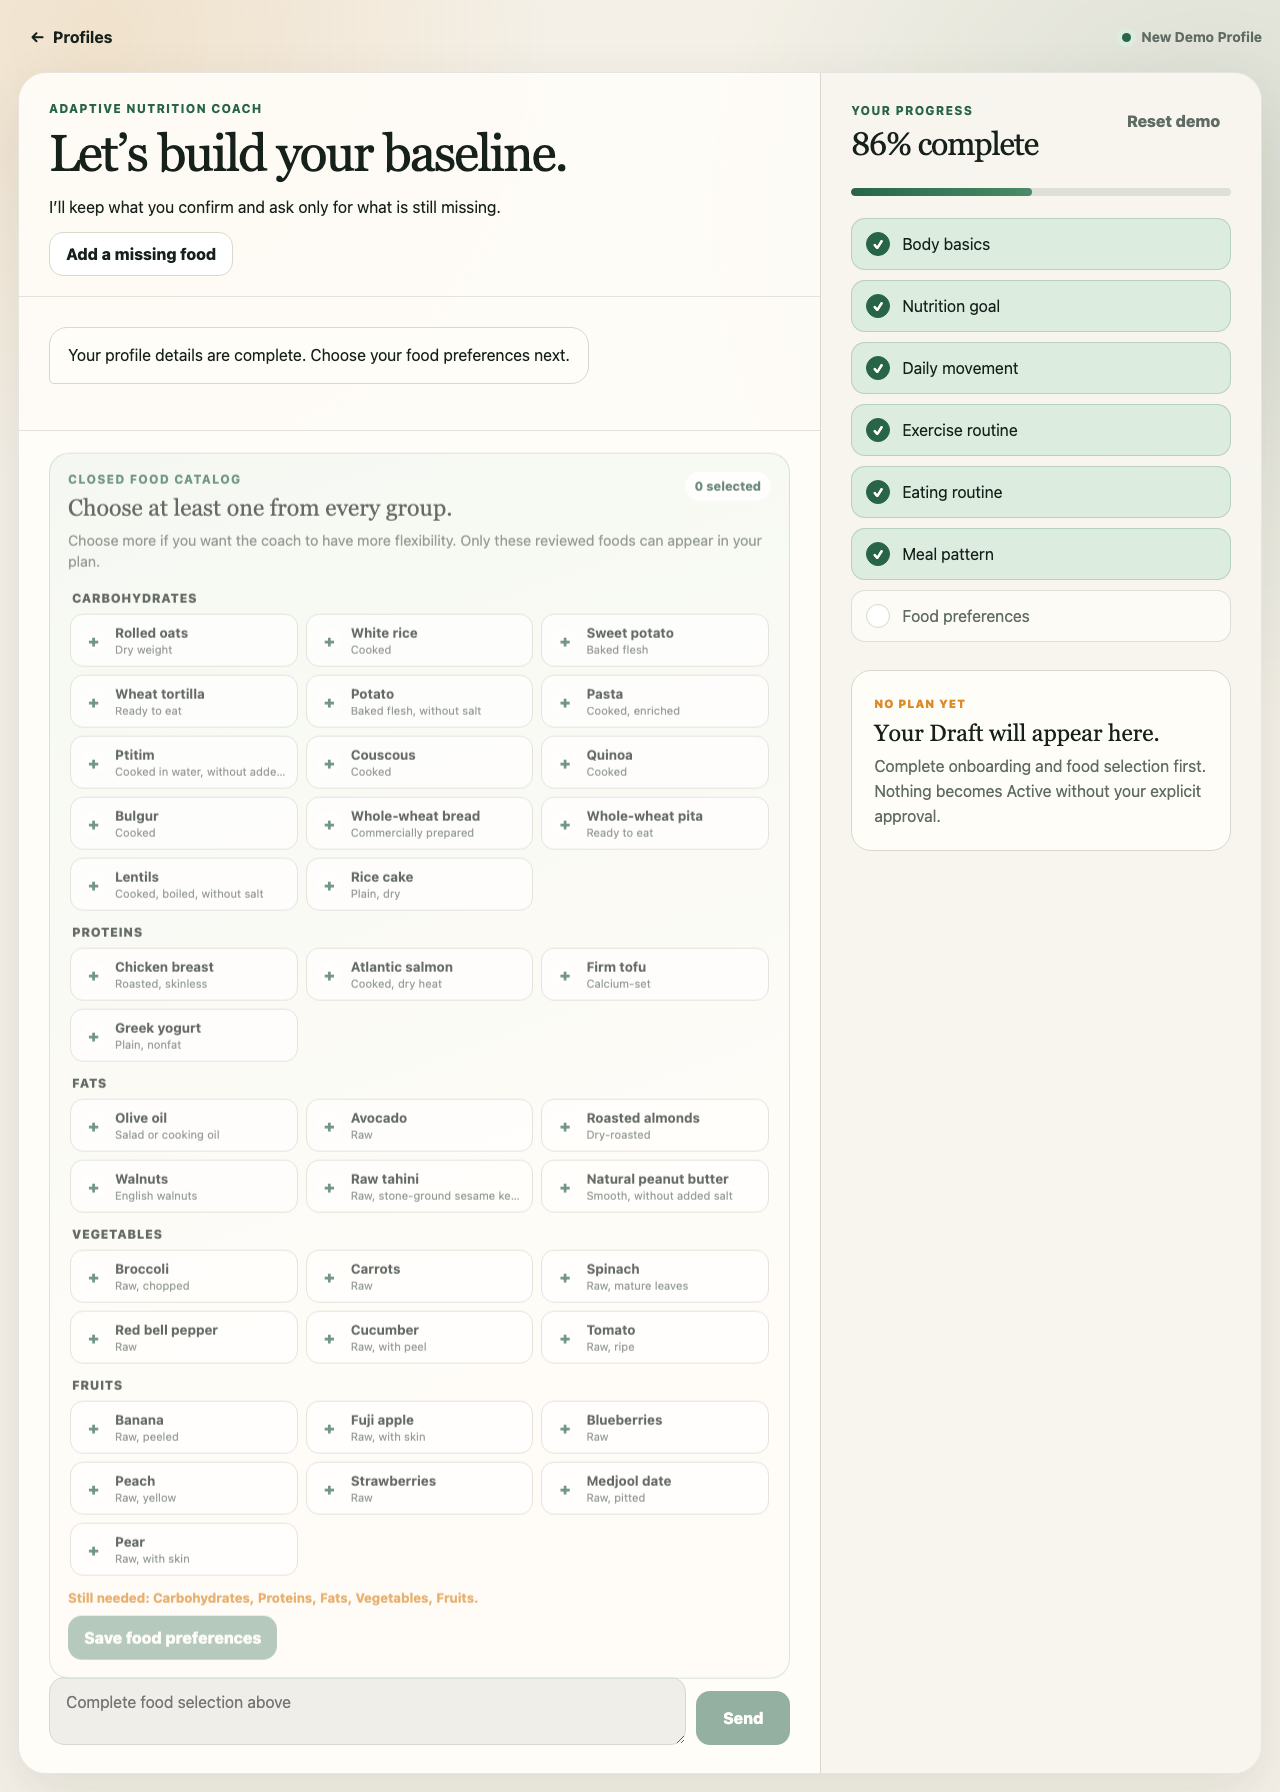
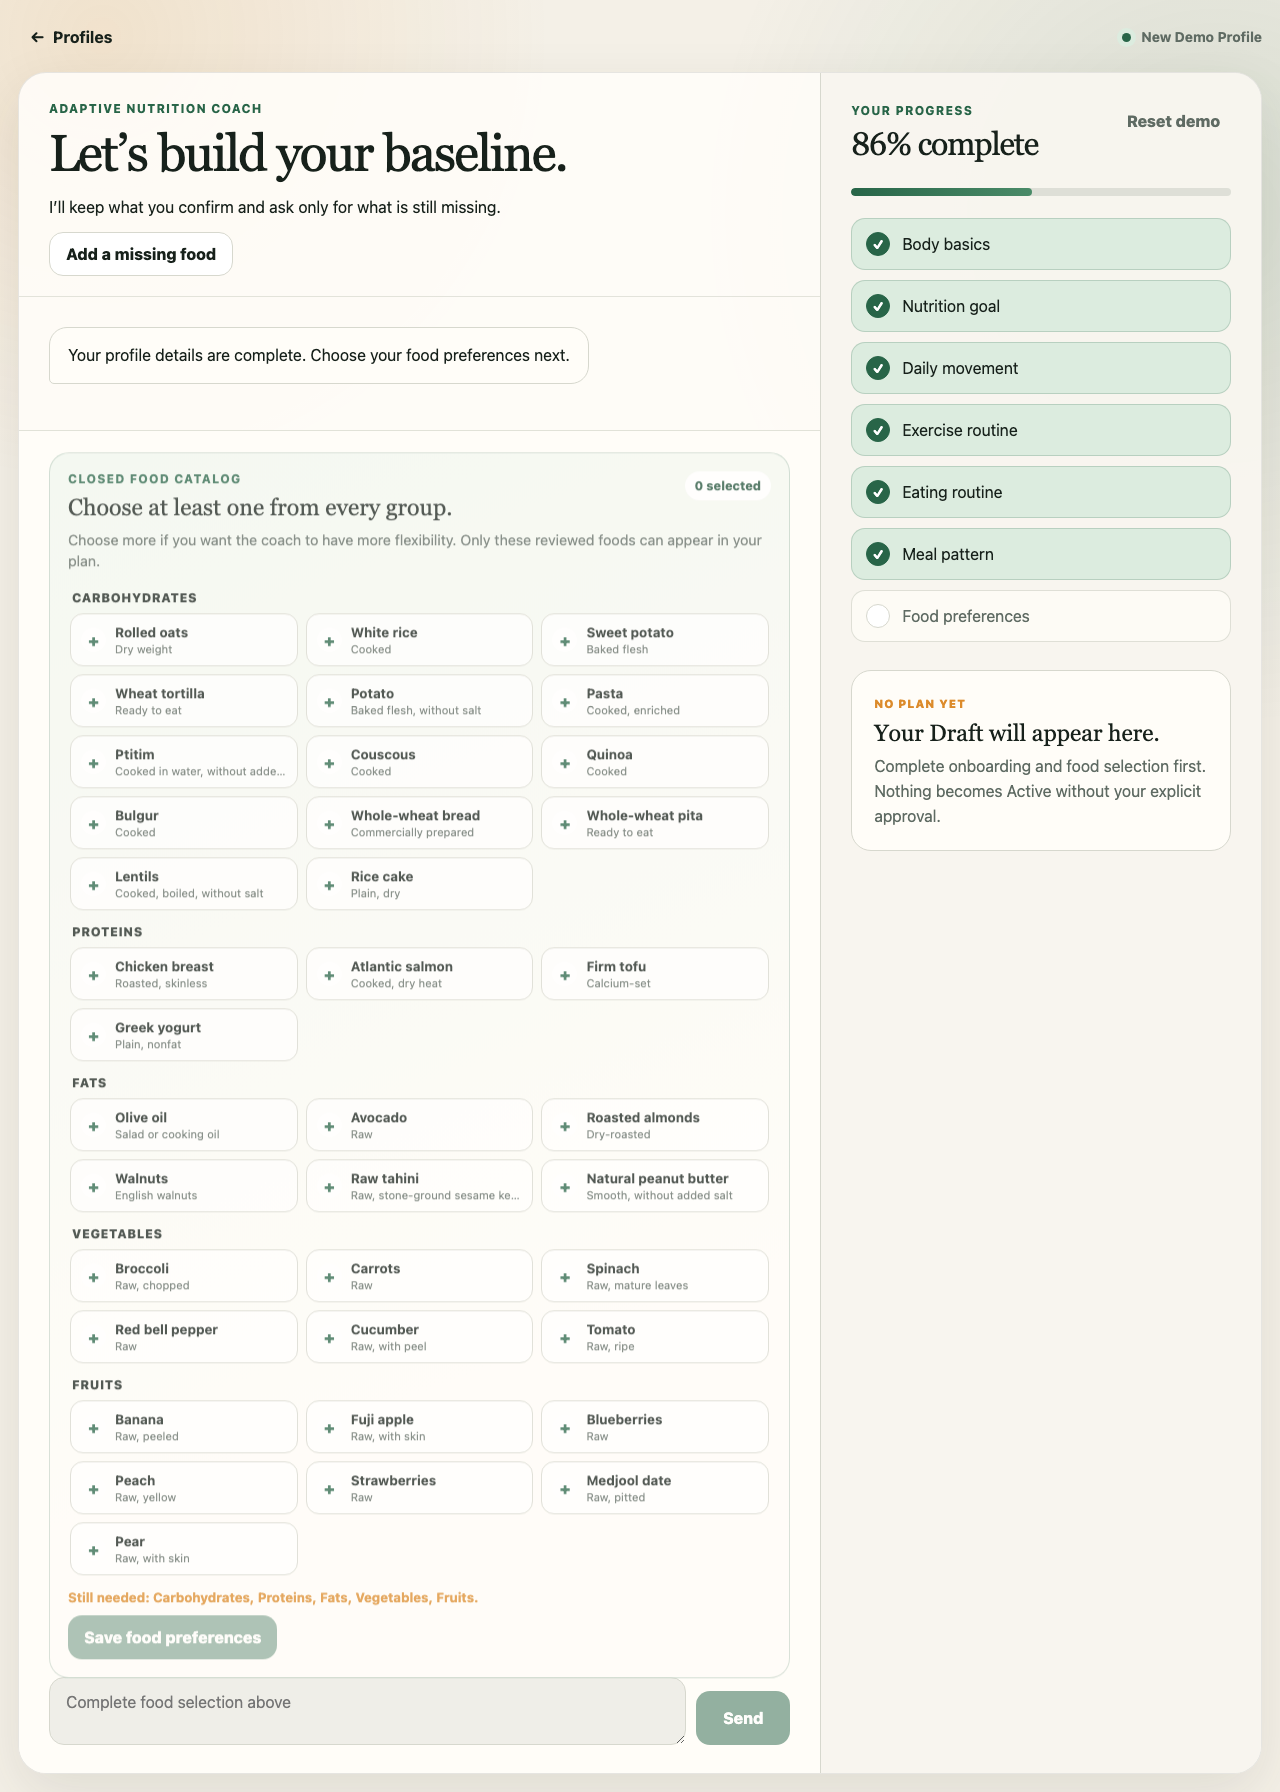
Make Draft generation direct and submit chat on Enter

Changed region(s): [[0.0938, 0.6875, 0.125, 0.7188]]

diff --git a/src/components/coach-workspace/CoachWorkspace.tsx b/src/components/coach-workspace/CoachWorkspace.tsx
@@ -1,7 +1,14 @@
 "use client";
 
 import Link from "next/link";
-import { FormEvent, useEffect, useMemo, useRef, useState } from "react";
+import {
+  FormEvent,
+  KeyboardEvent,
+  useEffect,
+  useMemo,
+  useRef,
+  useState,
+} from "react";
 import {
   onboardingFailureSchema,
   onboardingSuccessSchema,
@@ -60,6 +67,19 @@ import type { CoachMessageRequest } from "@/domain/agent/types";
 import type { ConversationActivity } from "@/domain/agent/types";
 import { AgentInteractionPanel } from "./AgentInteractionPanel";
 import styles from "./CoachWorkspace.module.css";
+
+function handleComposerKeyDown(event: KeyboardEvent<HTMLTextAreaElement>) {
+  if (
+    event.key !== "Enter" ||
+    event.shiftKey ||
+    event.nativeEvent.isComposing ||
+    event.currentTarget.disabled
+  ) {
+    return;
+  }
+  event.preventDefault();
+  event.currentTarget.form?.requestSubmit();
+}
 
 function createCommandId() {
   return (
@@ -622,6 +642,7 @@ function ExistingFoundation() {
               aria-label="Message to nutrition coach"
               disabled={agentBusy}
               maxLength={1_000}
+              onKeyDown={handleComposerKeyDown}
               onChange={(event) => setChatInput(event.target.value)}
               placeholder="Add a food, record a weight, or ask about your plan"
               rows={2}
@@ -1402,6 +1423,7 @@ export function CoachWorkspace({ profileId }: { profileId: DemoProfileId }) {
                       aria-label="Message to nutrition coach"
                       disabled={!inputEnabled}
                       maxLength={1_000}
+                      onKeyDown={handleComposerKeyDown}
                       onChange={(event) => setDraftMessage(event.target.value)}
                       placeholder="Try: replace one food, or change one portion…"
                       rows={2}
@@ -1421,6 +1443,7 @@ export function CoachWorkspace({ profileId }: { profileId: DemoProfileId }) {
                       aria-label="Message to nutrition coach"
                       disabled={!inputEnabled}
                       maxLength={1_000}
+                      onKeyDown={handleComposerKeyDown}
                       onChange={(event) => setDraftMessage(event.target.value)}
                       placeholder="Ask about your plan, record feedback, or add a food…"
                       rows={2}
@@ -1462,6 +1485,7 @@ export function CoachWorkspace({ profileId }: { profileId: DemoProfileId }) {
                         className={styles.feedbackInput}
                         disabled={state.status !== "idle"}
                         maxLength={1_000}
+                        onKeyDown={handleComposerKeyDown}
                         onChange={(event) =>
                           setDraftMessage(event.target.value)
                         }
@@ -1488,6 +1512,7 @@ export function CoachWorkspace({ profileId }: { profileId: DemoProfileId }) {
                       aria-label="Message to nutrition coach"
                       disabled={!inputEnabled}
                       maxLength={1_000}
+                      onKeyDown={handleComposerKeyDown}
                       onChange={(event) => setDraftMessage(event.target.value)}
                       placeholder={
                         inputEnabled

diff --git a/src/application/coach-turn.ts b/src/application/coach-turn.ts
@@ -299,6 +299,26 @@ function requestsDraftIntegration(input: CoachMessageRequest["input"]) {
   );
 }
 
+function requestsDraftProposal(input: CoachMessageRequest["input"]) {
+  if (input.type !== "text") return false;
+  const text = input.text.trim();
+  if (
+    /\b(?:don't|do not|not|never)\b[\s\S]{0,80}\b(?:draft|meal plan|menu)\b/iu.test(
+      text,
+    )
+  ) {
+    return false;
+  }
+  return (
+    /\b(?:generate|create|make|build|prepare|propose)\b[\s\S]{0,100}\b(?:draft|meal\s+plan|menu)\b/iu.test(
+      text,
+    ) ||
+    /(?:צור|תכין|הכן|תייצר|בנה)[\s\S]{0,100}(?:טיוטה|תפריט|תוכנית\s+ארוחות)/u.test(
+      text,
+    )
+  );
+}
+
 function requiresImmediateDraftProposal(
   input: CoachMessageRequest["input"],
   state: PersistedDemoState,
@@ -491,7 +511,7 @@ function allowedTools(
     "select_food_candidate",
   ];
   if ("profile" in state) {
-    if (isProfileReady(state.profile) && proposalAttempts < 3) {
+    if (isProfileReady(state.profile) && !state.draft && proposalAttempts < 3) {
       common.push("submit_draft_proposal");
     }
   } else {
@@ -511,7 +531,7 @@ function allowedTools(
       proposalAttempts < 3
     ) {
       common.push("submit_adjustment_proposal");
-    } else if (!adjustmentPending && proposalAttempts < 3) {
+    } else if (!adjustmentPending && !state.draft && proposalAttempts < 3) {
       common.push("submit_draft_proposal");
     }
   }
@@ -1657,6 +1677,19 @@ export async function executeCoachTurn(input: {
     }
     return policyAllowed;
   };
+  const shouldForceDraftProposal = () => {
+    if (state.draft || proposalAttempts >= 3) return false;
+    const pendingDraftFeedback =
+      currentInteraction?.type === "clarification" &&
+      currentInteraction.workflow === "draft" &&
+      input.request.input.type === "text" &&
+      input.request.input.text.trim().length > 0;
+    return (
+      requestsDraftProposal(input.request.input) ||
+      requiresImmediateDraftProposal(input.request.input, state) ||
+      pendingDraftFeedback
+    );
+  };
   const contextWithoutDigest = {
     ...contextFor(
       currentProfile,
@@ -1705,11 +1738,15 @@ export async function executeCoachTurn(input: {
       input.request.input.type === "interaction" &&
       input.request.input.action === "generate_adjustment"
         ? "submit_adjustment_proposal"
-        : requiresImmediateDraftProposal(input.request.input, state)
+        : shouldForceDraftProposal()
           ? "submit_draft_proposal"
           : requiresImmediateFoodSearch(input.request.input, currentInteraction)
             ? "search_foods"
             : null,
+    getRequiredTool: (sequence) =>
+      sequence > 1 && shouldForceDraftProposal()
+        ? "submit_draft_proposal"
+        : null,
     onText: input.onText,
     onTool: executeTool,
   });

diff --git a/src/ai/coach-agent.ts b/src/ai/coach-agent.ts
@@ -443,6 +443,7 @@ export async function runCoachAgent(input: {
   conversation: Array<{ role: "assistant" | "user"; content: string }>;
   getAllowedTools: () => CoachToolName[];
   getRequiredFirstTool?: () => CoachToolName | null;
+  getRequiredTool?: (sequence: number) => CoachToolName | null;
   onText: (delta: string) => void;
   onTool: (
     call: CoachToolCall,
@@ -460,9 +461,11 @@ export async function runCoachAgent(input: {
   for (let sequence = 1; sequence <= 5; sequence += 1) {
     const allowed = sequence <= 4 ? input.getAllowedTools() : [];
     const selectedTools = allowed.map((name) => tools[name]);
-    const requiredFirstTool =
-      sequence === 1 ? (input.getRequiredFirstTool?.() ?? null) : null;
-    if (requiredFirstTool && !allowed.includes(requiredFirstTool)) {
+    const requiredTool =
+      sequence === 1
+        ? (input.getRequiredFirstTool?.() ?? null)
+        : (input.getRequiredTool?.(sequence) ?? null);
+    if (requiredTool && !allowed.includes(requiredTool)) {
       throw new CoachAgentError("The required bounded skill is unavailable.");
     }
     const stream = await atStage("provider_request", () =>
@@ -475,8 +478,8 @@ export async function runCoachAgent(input: {
         ...(selectedTools.length > 0
           ? {
               tools: selectedTools,
-              tool_choice: requiredFirstTool
-                ? ({ type: "function", name: requiredFirstTool } as const)
+              tool_choice: requiredTool
+                ? ({ type: "function", name: requiredTool } as const)
                 : ("auto" as const),
               parallel_tool_calls: false,
             }

diff --git a/tests/unit/arnold-loop.test.ts b/tests/unit/arnold-loop.test.ts
@@ -197,6 +197,41 @@ describe("Arnold bounded skill loop", () => {
     );
   });
 
+  it("forces a Draft repair tool after deterministic validation rejects the first candidate", async () => {
+    provider.responses = [
+      proposalCall(1),
+      proposalCall(2),
+      {
+        status: "completed",
+        output_text: "The validated Draft is ready.",
+        output: [],
+      },
+    ];
+    let attempts = 0;
+    const onTool = vi.fn(async () => {
+      attempts += 1;
+      return { accepted: attempts > 1 };
+    });
+
+    await runCoachAgent({
+      getSystemPrompt: () => "fixed prompt",
+      conversation: [{ role: "user", content: "Generate my Draft Meal Plan" }],
+      getAllowedTools: () => (attempts < 2 ? ["submit_draft_proposal"] : []),
+      getRequiredFirstTool: () => "submit_draft_proposal",
+      getRequiredTool: () => (attempts === 1 ? "submit_draft_proposal" : null),
+      onText: vi.fn(),
+      onTool,
+    });
+
+    expect(onTool).toHaveBeenCalledTimes(2);
+    expect(provider.calls[0]).toMatchObject({
+      tool_choice: { type: "function", name: "submit_draft_proposal" },
+    });
+    expect(provider.calls[1]).toMatchObject({
+      tool_choice: { type: "function", name: "submit_draft_proposal" },
+    });
+  });
+
   it("tags provider failures with a safe diagnostic stage", async () => {
     provider.responses = [];
 

diff --git a/tests/e2e/turn-3.spec.ts b/tests/e2e/turn-3.spec.ts
@@ -21,6 +21,37 @@ test.beforeEach(async ({ request }) => {
   });
 });
 
+test("Enter sends the Existing coach message", async ({ page }) => {
+  await page.addInitScript(() => {
+    window.sessionStorage.setItem("arnold-trend-review:existing", "started");
+  });
+  let requests = 0;
+  await page.route("**/api/coach/message", async (route) => {
+    requests += 1;
+    await route.fulfill({
+      status: 200,
+      contentType: "application/json",
+      body: JSON.stringify({
+        ok: true,
+        profile: {
+          profileId: "existing",
+          version: 2,
+          state: createExistingDemoState(),
+        },
+      }),
+    });
+  });
+  await page.goto("/coach/existing");
+
+  const input = page.getByRole("textbox", {
+    name: "Message to nutrition coach",
+  });
+  await input.fill("Tell me about my plan");
+  await input.press("Enter");
+  await expect.poll(() => requests).toBe(1);
+  await expect(input).toHaveValue("");
+});
+
 test("B-01 reviews, declines, revises, and approves an adjustment in chat", async ({
   page,
 }) => {

diff --git a/tests/e2e/turn-2.spec.ts b/tests/e2e/turn-2.spec.ts
@@ -235,6 +235,31 @@ test("Draft failure and retry preserve state and avoid duplicate actions", async
   ).toHaveCount(1);
 });
 
+test("Enter sends Fresh chat and Shift+Enter keeps a newline", async ({
+  page,
+}) => {
+  const cloud = await startWithState(page, makeReadyState());
+  await installTurn2Agent(page, cloud);
+
+  const input = page.getByRole("textbox", {
+    name: "Message to nutrition coach",
+  });
+  await input.fill("Please create my Draft");
+  await input.press("Shift+Enter");
+  await input.type("Meal Plan");
+  await expect(input).toHaveValue("Please create my Draft\nMeal Plan");
+  await input.press("Enter");
+
+  await expect(
+    page.getByText("Draft Meal Plan", { exact: true }),
+  ).toBeVisible();
+  await expect(
+    page.locator('[data-role="user"]', {
+      hasText: "Please create my Draft\nMeal Plan",
+    }),
+  ).toHaveCount(1);
+});
+
 test("declining a Draft opens feedback for a revised proposal", async ({
   page,
 }) => {

diff --git a/tests/unit/coach-turn.test.ts b/tests/unit/coach-turn.test.ts
@@ -1004,6 +1004,7 @@ describe("unified coach orchestration", () => {
     if (!("profile" in result.profile.state)) {
       throw new Error("Expected Fresh state.");
     }
+    expect(agent.requiredFirstTools).toEqual(["submit_draft_proposal"]);
     expect(result.profile.state.draft?.plan.validation.valid).toBe(true);
     expect(
       result.profile.state.draft?.plan.meals.flatMap((meal) =>
